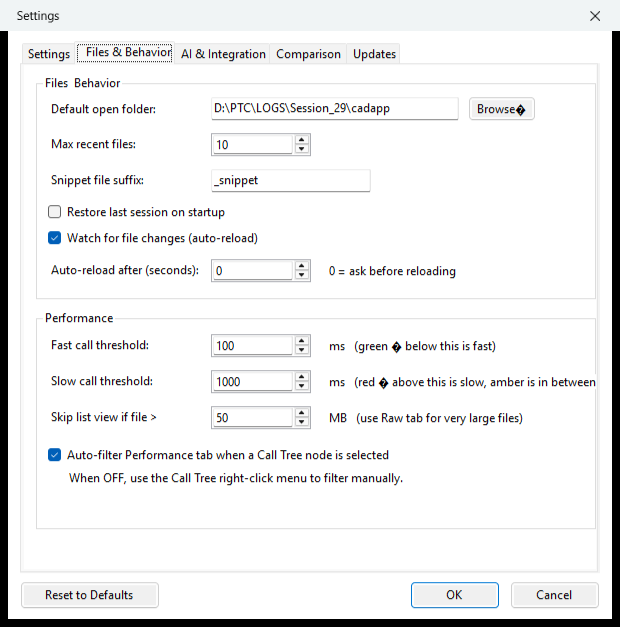
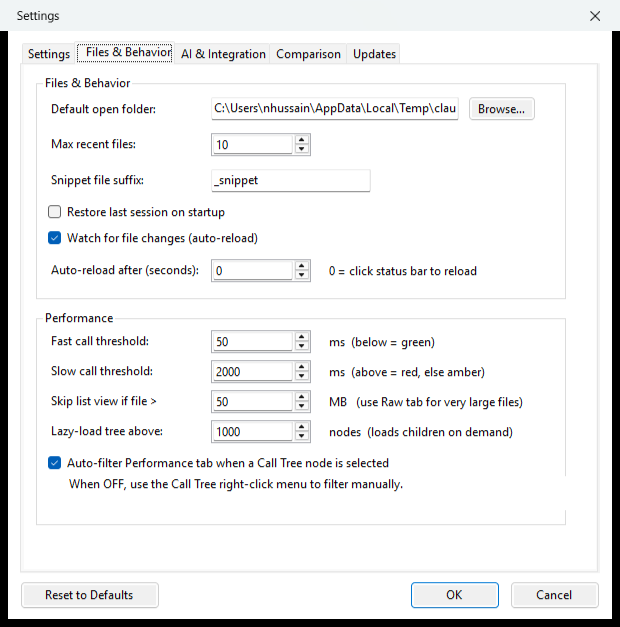
Update UserGuide.html for the B1/B2/B4-B7/C2/C3 fixes
Documents: Find dialog Previous button, match count, and invalid-regex
indicator (B1/B2); Filter dialog's Thread ID dropdown and multi-select
Log level checkboxes (B7/B6); duration/time-range filters now also
highlighting matching Call Tree nodes (B4/B5); configurable Call Tree
color thresholds and lazy-load threshold, with corrected defaults
(C2/C3); and the corrected non-blocking auto-reload behavior (A4).

Also replaces three Settings dialog screenshots that were stale
before today's dialog bug fixes (missing ampersands, mojibake, and
missing Lazy-load row).

diff --git a/Help/UserGuide.html b/Help/UserGuide.html
@@ -488,7 +488,7 @@
     <p>The recent-files list now lives in <code>%AppData%\CAD3PLogBrowser\recentfiles.json</code> instead of inside <code>settings.json</code>, so it survives a settings reset. Existing recent files are migrated automatically the first time you run this version.</p>
 
     <h3>&#128260; Configurable auto-reload, off by default at 0</h3>
-    <p><span class="menu">View <span class="menu-arrow">&#8594;</span> Watch for File Changes</span> toggles disk-change monitoring, and a new <strong>Auto-reload after (seconds)</strong> setting (Settings &#8594; Files &amp; Behavior) lets a changed file reload itself silently after a delay instead of always prompting. Leave it at <code>0</code> (the default) to keep the Yes/No prompt.</p>
+    <p><span class="menu">View <span class="menu-arrow">&#8594;</span> Watch for File Changes</span> toggles disk-change monitoring, and a new <strong>Auto-reload after (seconds)</strong> setting (Settings &#8594; Files &amp; Behavior) lets a changed file reload itself silently after a delay. Reloading is always non-blocking: at <code>0</code> (the default) the status bar shows a &#8220;File changed on disk &#8212; click to reload&#8221; message you click when ready; above <code>0</code> it reloads by itself after a silent countdown, also shown in the status bar.</p>
 
     <h3>&#127775; Expand to Level (tree)</h3>
     <p>The Call Tree and API Tree context menus (and the Edit menu) gained an <strong>Expand to Level...</strong> command that expands every node down to a depth you choose in one step, collapsing anything deeper &#8212; a middle ground between one node at a time and Expand All. See <a href="#expand-to-level">Expand to Level</a>.</p>
@@ -597,7 +597,7 @@
     </table>
 
     <div class="note">
-        <strong>&#128221; Auto-watch:</strong> When <span class="menu">View <span class="menu-arrow">&#8594;</span> Watch for File Changes</span> is on (the default), the app monitors the opened file for disk changes and the status ball turns red when it changes. What happens next depends on the <strong>Auto-reload after (seconds)</strong> setting: at <code>0</code> (default) you get a Yes/No prompt; above <code>0</code> it reloads by itself after a silent countdown, shown right in the status bar. Either way, pressing <kbd>F5</kbd> reloads immediately.
+        <strong>&#128221; Auto-watch:</strong> When <span class="menu">View <span class="menu-arrow">&#8594;</span> Watch for File Changes</span> is on (the default), the app monitors the opened file for disk changes. What happens next depends on the <strong>Auto-reload after (seconds)</strong> setting: at <code>0</code> (default) the status bar shows a clickable &#8220;File changed on disk &#8212; click to reload&#8221; message &#8212; nothing reloads until you click it; above <code>0</code> it reloads by itself after a silent countdown, shown right in the status bar. Either way, pressing <kbd>F5</kbd> reloads immediately.
     </div>
 
     <div class="info">
@@ -722,14 +722,17 @@
         <div class="feature-row"><span class="label">Use regex</span><span class="desc">Full .NET regular expression support</span></div>
         <div class="feature-row"><span class="label">Search history</span><span class="desc">Drop-down remembers last 20 search terms (persisted across sessions)</span></div>
         <div class="feature-row"><span class="label">Highlight all</span><span class="desc">Matching lines are highlighted yellow in the log view</span></div>
+        <div class="feature-row"><span class="label">Previous button</span><span class="desc">Steps to the previous match without closing the dialog; <kbd>Shift+Enter</kbd> in the search box does the same</span></div>
+        <div class="feature-row"><span class="label">Match count</span><span class="desc">Shows &#8220;Match N of M&#8221; (or &#8220;No matches&#8221;) below the search box as you type</span></div>
+        <div class="feature-row"><span class="label">Invalid regex indicator</span><span class="desc">With <em>Use regex</em> checked, an invalid pattern tints the search box red with a tooltip explaining the error &#8212; distinct from a valid pattern that simply has no matches</span></div>
     </div>
 
     <table class="shortcut-table">
         <thead><tr><th>Action</th><th>Shortcut</th></tr></thead>
         <tbody>
             <tr><td>Open Find dialog</td><td><kbd>Ctrl+F</kbd></td></tr>
-            <tr><td>Find next (no dialog)</td><td><kbd>F3</kbd></td></tr>
-            <tr><td>Find previous</td><td><kbd>Shift+F3</kbd></td></tr>
+            <tr><td>Find next (in dialog or main window)</td><td><kbd>F3</kbd> / <kbd>Enter</kbd></td></tr>
+            <tr><td>Find previous (in dialog or main window)</td><td><kbd>Shift+F3</kbd> / <kbd>Shift+Enter</kbd></td></tr>
             <tr><td>Find All (results window)</td><td><kbd>Ctrl+Alt+F</kbd></td></tr>
         </tbody>
     </table>
@@ -748,13 +751,17 @@
             <tr><td><strong>Min duration (ms)</strong></td><td>Only calls with <code>[N ms]</code> duration &ge; this value</td><td><code>500</code></td></tr>
             <tr><td><strong>From time</strong></td><td>Log lines at or after this time-of-day</td><td><code>14:30:00</code></td></tr>
             <tr><td><strong>To time</strong></td><td>Log lines at or before this time-of-day</td><td><code>14:35:00</code></td></tr>
-            <tr><td><strong>Thread ID</strong></td><td>Only lines from this thread</td><td><code>0x1A2B</code></td></tr>
-            <tr><td><strong>Log level</strong></td><td>ERROR, WARNING, INFO, or DEBUG</td><td>ERROR</td></tr>
+            <tr><td><strong>Thread ID</strong></td><td>Only lines from this thread &#8212; a drop-down of the thread IDs actually detected in the loaded log (editable, so you can still type one by hand). Hidden entirely when the log has none.</td><td><code>T7978</code></td></tr>
+            <tr><td><strong>Log level</strong></td><td>Independent checkboxes for Debug, Info, Warning, Error &#8212; check any combination to show lines matching <em>any</em> of the checked levels</td><td>Warning + Error</td></tr>
         </tbody>
     </table>
 
     <div class="tip">
         <strong>&#128161; Tip:</strong> When a filter is active, the status bar shows <em>&#8220;Filter: [description] &#8212; N of M lines&#8221;</em>. Clear it with <kbd>Ctrl+Shift+F</kbd> or <span class="menu">Edit <span class="menu-arrow">&#8594;</span> Clear Filter</span>.
+    </div>
+
+    <div class="note">
+        <strong>&#128278; Filters reach the trees too:</strong> When the <strong>Min duration</strong> or time-range criteria are active, matching nodes in the Call Tree are highlighted and their ancestor chains auto-expanded &#8212; the same non-destructive highlight approach used by the tree search box, not a separate filter mechanism. Text/thread/level criteria still apply only to the Log view.
     </div>
 
     <h3>Regex Examples</h3>
@@ -836,13 +843,14 @@
         <thead><tr><th>Colour</th><th>Duration</th><th>Meaning</th></tr></thead>
         <tbody>
             <tr><td><span class="swatch" style="background:#00aa00;"></span> Green</td><td>&lt; 100 ms</td><td>Fast &#8212; no concern</td></tr>
-            <tr><td><span class="swatch" style="background:#cc6600;"></span> Amber</td><td>100 &#8211; 500 ms</td><td>Moderate &#8212; worth monitoring</td></tr>
-            <tr><td><span class="swatch" style="background:#cc0000;"></span> Red</td><td>&gt; 500 ms</td><td>Slow &#8212; likely bottleneck</td></tr>
+            <tr><td><span class="swatch" style="background:#cc6600;"></span> Amber</td><td>100 &#8211; 1000 ms</td><td>Moderate &#8212; worth monitoring</td></tr>
+            <tr><td><span class="swatch" style="background:#cc0000;"></span> Red</td><td>&gt; 1000 ms</td><td>Slow &#8212; likely bottleneck</td></tr>
         </tbody>
     </table>
+    <p>Both cutoffs (default 100 ms / 1000 ms) are configurable via <span class="menu">Settings <span class="menu-arrow">&#8594;</span> Files &amp; Behavior</span> as <strong>Fast call threshold</strong> and <strong>Slow call threshold</strong> &#8212; the tree recolours immediately when you change them, no reload needed.</p>
 
     <h3>Lazy Loading</h3>
-    <p>For very large call trees (&gt; 50,000 nodes), the tree uses <strong>lazy loading</strong>: child nodes are populated on demand when you expand a parent. A <em>&#8220;Loading&#8230;&#8221;</em> placeholder is shown until children are rendered.</p>
+    <p>For very large call trees, the tree uses <strong>lazy loading</strong>: child nodes are populated on demand when you expand a parent. A <em>&#8220;Loading&#8230;&#8221;</em> placeholder is shown until children are rendered. The node-count threshold that triggers this (default 50,000) is configurable via <span class="menu">Settings <span class="menu-arrow">&#8594;</span> Files &amp; Behavior</span> as <strong>Lazy-load tree above</strong> &#8212; lower it on slower machines for snappier expansion, or raise it to always build small/medium trees eagerly.</p>
 
     <h3>Sorting (API Tree only)</h3>
     <p>Right-click the API Tree to choose sort order: by <strong>Name</strong>, by <strong>Call Count</strong>, or by <strong>First Line</strong>.</p>
@@ -1333,10 +1341,11 @@
             <tr><td>Snippet file suffix</td><td>_snippet</td><td>Appended to the original log filename when using <em>Save As</em> (<kbd>Ctrl+S</kbd>) or <em>Save Branch</em>. E.g. suffix <code>_snippet</code> with file <code>trace.log</code> produces <code>trace_snippet.log</code></td></tr>
             <tr><td>Restore last session on startup</td><td>&#9744; Off</td><td>When on, reopens the most recent file automatically at launch &#8212; but only if no file was already given on the command line</td></tr>
             <tr><td>Watch for file changes (auto-reload)</td><td>&#10003; On</td><td>Master toggle for the file-change watcher; mirrored by <span class="menu">View <span class="menu-arrow">&#8594;</span> Watch for File Changes</span></td></tr>
-            <tr><td>Auto-reload after (seconds)</td><td>0</td><td>0 = ask before reloading (Yes/No prompt). Any value above 0 reloads automatically after a silent countdown shown in the status bar.</td></tr>
-            <tr><td>Fast call threshold</td><td>100 ms</td><td>Below this, calls are shown green in the tree</td></tr>
-            <tr><td>Slow call threshold</td><td>1000 ms</td><td>At/above this, calls are shown red; 1/10th of this is the amber cutoff</td></tr>
+            <tr><td>Auto-reload after (seconds)</td><td>0</td><td>0 = non-blocking &#8212; the status bar shows a clickable &#8220;File changed on disk&#8221; message and nothing reloads until you click it. Any value above 0 reloads automatically after a silent countdown shown in the status bar.</td></tr>
+            <tr><td>Fast call threshold</td><td>100 ms</td><td>Below this, calls are shown green in the Call Tree</td></tr>
+            <tr><td>Slow call threshold</td><td>1000 ms</td><td>At/above this, calls are shown red in the Call Tree; between the two thresholds is amber</td></tr>
             <tr><td>Skip list view if file &gt;</td><td>50 MB</td><td>For very large files, the virtual list view is bypassed</td></tr>
+            <tr><td>Lazy-load tree above</td><td>50,000 nodes</td><td>Call Tree node-count threshold above which children load on demand as you expand each node, instead of building the whole tree up front. The tree re-renders immediately when you change this, without reopening the file.</td></tr>
             <tr><td>Auto-filter Performance tab when a Call Tree node is selected</td><td>&#10003; On</td><td>When off, use the Call Tree right-click menu to filter Performance manually instead</td></tr>
         </tbody>
     </table>
